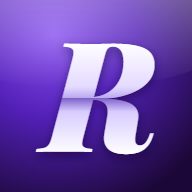
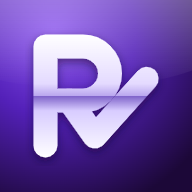
Volta o ícone do R com check (escolha do André); sw v19
Claude-Session: https://claude.ai/code/session_01S2KnhMp8BeXymxvxoNEECe

Changed region(s): [[0.1562, 0.1562, 0.8438, 0.8438]]

diff --git a/index.html b/index.html
@@ -7,6 +7,7 @@
 <link rel="manifest" href="manifest.webmanifest">
 <meta name="theme-color" content="#313E27">
 <link rel="icon" type="image/png" sizes="32x32" href="favicon-32.png">
+<link rel="icon" type="image/svg+xml" href="logo.svg">
 <link rel="apple-touch-icon" href="apple-touch-icon.png">
 <meta name="apple-mobile-web-app-capable" content="yes">
 <meta name="mobile-web-app-capable" content="yes">
@@ -658,7 +659,7 @@ tr.auto td,tr.auto td.cn{background:var(--b50)}
 </style>
 </head>
 <body>
-<aside class="sb" id="sb" aria-label="Menu"><div class="sb-br"><div class="sb-mk"><img class="sb-logo" src="icone-192.png" alt="" width="40" height="40"><div><h1>Resolve Aê</h1><small>Controle financeiro</small></div></div><div class="yr-sel" id="yrsel"></div></div><nav class="sb-nav" id="sbn"></nav><div class="sb-sync"><button onclick="exportData()"><svg class="i" viewBox="0 0 24 24" aria-hidden="true"><path d="M12 4v11M7 10l5 5 5-5M5 20h14"/></svg>Exportar</button><button onclick="document.getElementById('syncFile').click()"><svg class="i" viewBox="0 0 24 24" aria-hidden="true"><path d="M12 20V9M7 14l5-5 5 5M5 4h14"/></svg>Importar<input type='file' id='syncFile' accept='.json' style='display:none' onchange='importData(this.files[0])'></button></div><div class="sb-ft" id="syncFt" onclick="sincronizarAgora()" title="Toque para sincronizar agora" role="button" tabindex="0"><span class="dot" id="syncDot"></span><span id="syncTxt">Iniciando…</span></div></aside>
+<aside class="sb" id="sb" aria-label="Menu"><div class="sb-br"><div class="sb-mk"><svg class="sb-logo" viewBox="0 0 512 512" aria-hidden="true"><defs> <radialGradient id="mf" cx="28%" cy="18%" r="95%"><stop offset="0" stop-color="#8A52F0"/><stop offset=".45" stop-color="#5320B8"/><stop offset="1" stop-color="#1C0838"/></radialGradient> <linearGradient id="mc" x1="0" y1="96" x2="0" y2="424" gradientUnits="userSpaceOnUse">  <stop offset="0" stop-color="#FFFFFF"/><stop offset=".40" stop-color="#E4DAFF"/><stop offset=".5" stop-color="#B9A6EE"/>  <stop offset=".5" stop-color="#7E62C9"/><stop offset=".62" stop-color="#D8CCFF"/><stop offset="1" stop-color="#FFFFFF"/></linearGradient> <linearGradient id="mg" x1="0" y1="0" x2="0" y2="1"><stop offset="0" stop-color="#fff" stop-opacity=".30"/><stop offset="1" stop-color="#fff" stop-opacity="0"/></linearGradient> <filter id="ms" x="-20%" y="-20%" width="140%" height="140%"><feDropShadow dx="0" dy="10" stdDeviation="12" flood-color="#12052A" flood-opacity=".55"/></filter></defs><rect width="512" height="512" rx="112" fill="url(#mf)"/><path d="M0 0H512V188C380 236 160 250 0 214Z" fill="url(#mg)"/><g transform="translate(-29 -4) scale(1)" filter="url(#ms)" fill="none" stroke="url(#mc)" stroke-width="64" stroke-linecap="round" stroke-linejoin="round"> <path d="M150 392V128H250A72 72 0 0 1 250 272H150"/> <path d="M214 272L282 368L420 214"/></g></svg><div><h1>Resolve Aê</h1><small>Controle financeiro</small></div></div><div class="yr-sel" id="yrsel"></div></div><nav class="sb-nav" id="sbn"></nav><div class="sb-sync"><button onclick="exportData()"><svg class="i" viewBox="0 0 24 24" aria-hidden="true"><path d="M12 4v11M7 10l5 5 5-5M5 20h14"/></svg>Exportar</button><button onclick="document.getElementById('syncFile').click()"><svg class="i" viewBox="0 0 24 24" aria-hidden="true"><path d="M12 20V9M7 14l5-5 5 5M5 4h14"/></svg>Importar<input type='file' id='syncFile' accept='.json' style='display:none' onchange='importData(this.files[0])'></button></div><div class="sb-ft" id="syncFt" onclick="sincronizarAgora()" title="Toque para sincronizar agora" role="button" tabindex="0"><span class="dot" id="syncDot"></span><span id="syncTxt">Iniciando…</span></div></aside>
 <div class="sbo" id="sbo" onclick="tsb()"></div>
 <div class="mn"><header class="hd" id="hd"></header><main class="ct" id="ct"></main></div>
 <nav class="tab" id="tab" aria-label="Navegação principal"></nav>

diff --git a/sw.js b/sw.js
@@ -1,7 +1,7 @@
 // Service worker do Resolve Aê
 // Regra: guarda a casca do app para abrir offline, mas NUNCA guarda dado da planilha.
 // Ao publicar mudanca no app, suba o numero da versao abaixo.
-const VERSAO = 'resolveae-v18';
+const VERSAO = 'resolveae-v19';
 const CASCA = [
   './',
   './index.html',
@@ -12,6 +12,7 @@ const CASCA = [
   './apple-touch-icon.png',
   './favicon-32.png',
   './icone-maskable-512.png',
+  './logo.svg',
   './CreatoDisplay-Regular.otf',
   './CreatoDisplay-Medium.otf',
   './CreatoDisplay-Black.otf'
